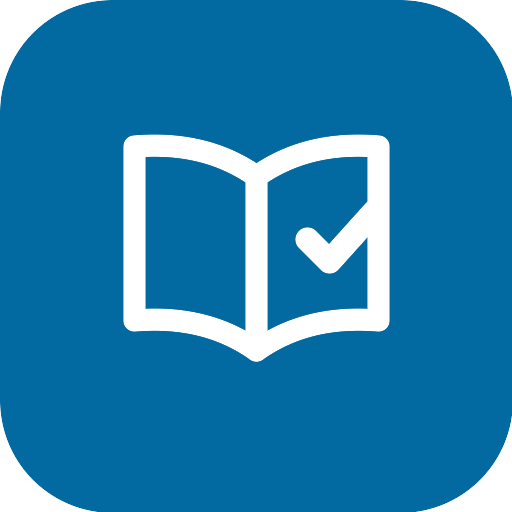
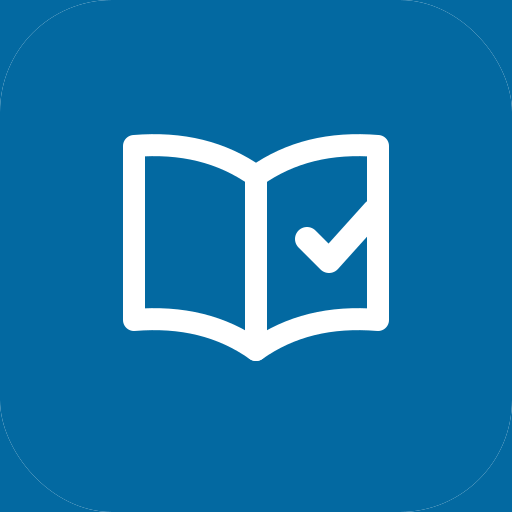
fix(brand): regenerate install PNGs from canonical SVG (#165)
* fix(brand): regenerate install PNGs from canonical favicon.svg

icon-192, icon-512, apple-touch-icon, and icon-maskable were black-corner
artifacts not matching BrandMark. Rasterize from public/favicon.svg
(#0369a1 + white book/check); maskable uses full-bleed brand with 80% safe zone.

* fix(ui): guarantee UpdatePrompt Restart meets 44px touch target

---------

diff --git a/src/components/UpdatePrompt.tsx b/src/components/UpdatePrompt.tsx
@@ -199,7 +199,7 @@ export function UpdatePrompt({ offlineVisible = false }: Props) {
             disabled={restarting}
             aria-busy={restarting}
             aria-label={restarting ? 'Updating application' : undefined}
-            className="shrink-0 self-center"
+            className="shrink-0 self-center min-h-[44px]"
           >
             <RefreshCw className={`w-3.5 h-3.5 ${restarting ? 'animate-spin' : ''}`} aria-hidden />
             {restarting ? 'Updating…' : 'Restart'}

diff --git a/scripts/generate-brand-icons.py b/scripts/generate-brand-icons.py
@@ -1,0 +1,44 @@
+#!/usr/bin/env python3
+"""Regenerate public PWA/install PNGs from public/favicon.svg (canonical mark).
+
+Requires: pip install cairosvg pillow
+Usage: python scripts/generate-brand-icons.py
+"""
+from pathlib import Path
+import cairosvg
+from PIL import Image
+
+ROOT = Path(__file__).resolve().parents[1]
+PUBLIC = ROOT / 'public'
+SVG = PUBLIC / 'favicon.svg'
+BRAND = (3, 105, 161, 255)  # #0369a1 — brand-700
+
+def render(size: int) -> Image.Image:
+    path = ROOT / 'node_modules' / '.cache' / f'brand-icon-{size}.png'
+    path.parent.mkdir(parents=True, exist_ok=True)
+    cairosvg.svg2png(bytestring=SVG.read_bytes(), write_to=str(path), output_width=size, output_height=size)
+    return Image.open(path).convert('RGBA')
+
+def flatten_on_brand(im: Image.Image) -> Image.Image:
+    bg = Image.new('RGBA', im.size, BRAND)
+    bg.paste(im, (0, 0), im)
+    return bg
+
+def main() -> None:
+    svg = SVG.read_text()
+    if '#0369a1' not in svg:
+        raise SystemExit('favicon.svg must use brand-700 #0369a1')
+    for size, name in [(192, 'icon-192.png'), (512, 'icon-512.png')]:
+        flatten_on_brand(render(size)).save(PUBLIC / name, 'PNG', optimize=True)
+        print('wrote', name)
+    flatten_on_brand(render(180)).save(PUBLIC / 'apple-touch-icon.png', 'PNG', optimize=True)
+    print('wrote apple-touch-icon.png')
+    canvas = Image.new('RGBA', (512, 512), BRAND)
+    content = render(512).resize((410, 410), Image.Resampling.LANCZOS)
+    offset = (512 - 410) // 2
+    canvas.paste(content, (offset, offset), content)
+    canvas.save(PUBLIC / 'icon-maskable.png', 'PNG', optimize=True)
+    print('wrote icon-maskable.png')
+
+if __name__ == '__main__':
+    main()
